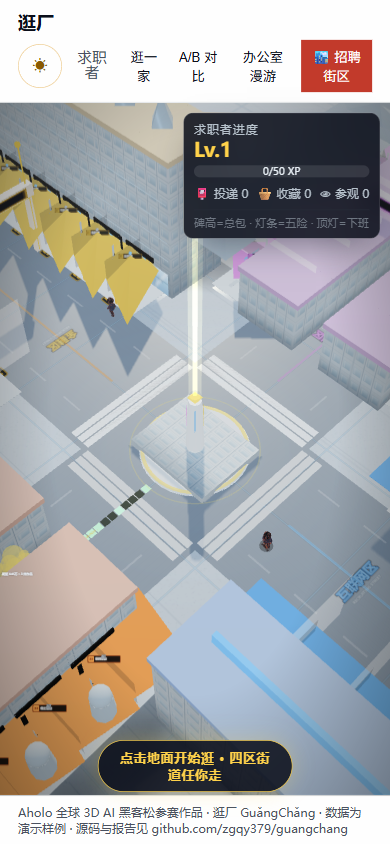
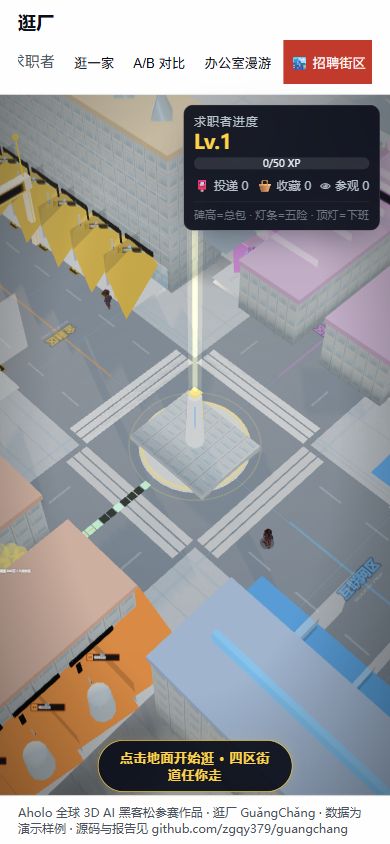
feat(street): polish9 盲审迭代——表单墨色/移动端防折行/夜景提亮/玻璃分层/Html z 序（两轮盲审视觉~7.0 空间~7.25）

diff --git a/web/src/styles.css b/web/src/styles.css
@@ -37,7 +37,7 @@ body,
   --ui-glass-fill-strong: rgba(255, 255, 255, 0.86);
   /* 玻璃垫实底：半透明玻璃会透出 3D 场景，最亮背景下次级文字会掉到 4.48:1。
      新增玻璃浮层必须垫这层实底（background-color 必须写在 background 之后）。 */
-  --ui-glass-underlay: rgba(255, 255, 255, 0.86);
+  --ui-glass-underlay: rgba(255, 255, 255, 0.92);
   --ui-glass-border: rgba(255, 255, 255, 0.55);
   --ui-glass-highlight: rgba(255, 255, 255, 0.85);
   --ui-ink-primary: #0b0e1a;    /* 10.4:1 ✓AAA */
@@ -81,7 +81,7 @@ body,
   --ui-glass-fill: rgba(11, 14, 26, 0.72);
   --ui-glass-fill-strong: rgba(11, 14, 26, 0.86);
   /* 浅色主题：深玻璃垫实底（合成 ≈ rgb(43,47,58)，次级/弱化文字均 ≥6.9:1） */
-  --ui-glass-underlay: rgba(11, 14, 26, 0.86);
+  --ui-glass-underlay: rgba(11, 14, 26, 0.92);
   --ui-glass-border: rgba(255, 255, 255, 0.18);
   --ui-glass-highlight: rgba(255, 255, 255, 0.22);
   --ui-ink-primary: #e6edf3;    /*  8.1:1 ✓AAA */
@@ -257,6 +257,9 @@ header h1 span {
   .mode-switch .theme-lock {
     padding-left: 6px;
     padding-right: 6px;
+    /* 防逐字折行：按钮文案永远单行、不被 flex 压缩（盲审 B：移动端顶栏「求职者」竖排） */
+    white-space: nowrap;
+    flex: 0 0 auto;
     /* min-height: 44px 保持不变（触控目标硬约束） */
   }
 }

diff --git a/web/src/components/CompanyPlot.tsx b/web/src/components/CompanyPlot.tsx
@@ -118,7 +118,7 @@ export function CompanyPlot({
         roam={roam}
         refs={roamRefs}
       />
-      <Html position={[0, 2.6, -2.2]} center distanceFactor={12}>
+      <Html position={[0, 2.6, -2.2]} center distanceFactor={12} zIndexRange={[10, 1]}>
         <div className="plot-label">{name}</div>
       </Html>
       {/* 山顶数据浮标：核心金额直接钉在山上 + 引线连到山尖（盲审：视线找不到主体） */}
@@ -130,7 +130,7 @@ export function CompanyPlot({
             <meshBasicMaterial color={ColorBrandOrange} />
           </mesh>
           {/* 标签 y = 山顶 + 引线顶端（杆顶上方 0.03m，与旧版间距一致），随引线长度自动升降 */}
-          <Html position={[-0.5, mountainH - 0.01 + leadLen + 0.03, -1.5]} center distanceFactor={13}>
+          <Html position={[-0.5, mountainH - 0.01 + leadLen + 0.03, -1.5]} center distanceFactor={13} zIndexRange={[10, 1]}>
             <div className="peak-tag">
               ¥{Math.round(totalPackage(params) / 10000)}万 · {params.salaryStructure}薪
             </div>

diff --git a/web/src/components/candidate/CandidateBooth.tsx b/web/src/components/candidate/CandidateBooth.tsx
@@ -106,9 +106,9 @@ export function CandidateBooth({
         </mesh>
       </group>
 
-      {/* 6. 入口铭牌（求职者期望薪资 / 学历 / 证书排序）。
-          ⚠ 必须用 drei <Html>：裸 <div> 在 Canvas 内会被 R3F 当 THREE intrinsic 校验直接抛错（T13） */}
-      <Html position={[0, 1.95, 0]} center distanceFactor={10} style={{ pointerEvents: 'none' }}>
+      {/* ⚠ 必须用 drei <Html>：裸 <div> 在 Canvas 内会被 R3F 当 THREE intrinsic 校验直接抛错（T13）。
+          zIndex 必须压到 1：drei Html 默认 zIndex=16777271，会穿透 z-index 14 的导航面板（盲审 R2 短板②） */}
+      <Html position={[0, 1.95, 0]} center distanceFactor={10} zIndexRange={[10, 1]} style={{ pointerEvents: 'none' }}>
         <div
           style={{
             color: night ? '#0b0e1a' : '#e8eef4',

diff --git a/web/src/components/street/OfficeFacadeInstanced.tsx b/web/src/components/street/OfficeFacadeInstanced.tsx
@@ -218,10 +218,11 @@ export function OfficeFacadeInstanced({
         <boxGeometry args={[6.66, 0.42, 5.44]} />
         <meshStandardMaterial />
       </instancedMesh>
-      {/* glass：底层玻璃幕墙 */}
+      {/* glass：底层玻璃幕墙 —— 白天降到 0.55：焦点机位前多层玻璃叠加会淹没 HR（盲审 B 短板 #1）
+          夜间保持 1.0（夜景靠这张反射室内暖光） */}
       <instancedMesh ref={glassRef} args={[undefined, undefined, count]}>
         <planeGeometry args={[5.8, 2.1]} />
-        <meshBasicMaterial transparent toneMapped={!night} />
+        <meshBasicMaterial transparent opacity={night ? 1 : 0.55} toneMapped={!night} />
       </instancedMesh>
       {/* led：门楣 LED */}
       <instancedMesh ref={ledRef} args={[undefined, undefined, count]}>

diff --git a/web/src/components/forms/ParamForm.css b/web/src/components/forms/ParamForm.css
@@ -5,7 +5,9 @@
   gap: 12px;
   font-size: 13px;
   font-family: 'PingFang SC', 'Microsoft YaHei', system-ui, sans-serif;
-  color: var(--ui-ink-primary);
+  /* 本表单挂在不透明面板（.controls）上：用页面前景而非玻璃墨色 ——
+     --ui-ink-* 在浅色主题下是浅灰，压白底近不可读（盲审 B 短板 #2） */
+  color: var(--ui-page-fg);
 }
 
 .gc-param-field {
@@ -36,7 +38,8 @@
   border-radius: 12px;
   background: var(--ui-glass-underlay);
   border: 1px solid var(--ui-glass-border);
-  color: var(--ui-ink-secondary);
+  /* 不透明面板内 → 面板次级色（随主题反相），非玻璃墨色 */
+  color: var(--ui-panel-fg-muted);
   font-size: 11px;
   font-weight: 600;
   cursor: pointer;

diff --git a/docs/lessons.md b/docs/lessons.md
@@ -343,3 +343,42 @@
 - **通用教训**：**新增组件时，先查全局样式表有没有同名元素选择器**（`header` / `footer` / `nav` / `p` / `span` 这类最危险）
 
 
+
+---
+
+## 十一、2026-10-27 视觉冲刺（polish9）新增经验
+
+### 11.1 R3F 两颗潜伏雷：Canvas 内裸 `<div>` 与 data-* 属性（T13）
+
+- **现象**：街区场景挂载即崩（`R3F: Div is not part of the THREE namespace` + `TypeError: Cannot read properties of undefined (reading 'work')`），ErrorBoundary 兜底成错误页
+- **根因 1**：`CandidateBooth` 把裸 `<div style=...>` 直接写在 `<group>` 里——R3F 把 JSX 元素名当 THREE namespace 校验，DOM 元素必须走 drei `<Html>`
+- **根因 2**：`WorkOrbit` 给 `<group>` 加了 `data-work-id` ——R3F 把 dashed key 当 pierce 路径 `['data','work','id']` 解析，`instance.data` 为 undefined 即崩
+- **铁律**：Canvas 内只能渲染 THREE/drei 元素；DOM 用 `<Html>` 包；R3F 元素**永远不加 data-*/aria-* 属性**（标识用 React key 或实例字段）
+- **事故面**：这两个雷随 4c774d9（01:46 候选人集成）进库，街区自那时起**从未成功渲染过**（typecheck 绿 ≠ 场景能渲染），直到 10-27 下午才被截图管线撞破
+
+### 11.2 `material.vertexColors=true` + 无 color 顶点属性 = 纯黑（黑棚顶，M6b 起潜伏）
+
+- **现象**：64 栋办公楼顶盖（cap）与棚顶在昼/夜景全是纯黑
+- **根因**：`<meshStandardMaterial vertexColors />` 但 `BoxGeometry` 没有 `color` 顶点属性 → USE_COLOR 打开后 vColor 乘上未绑定 attribute（默认 0,0,0）→ 全黑；instanceColor 染色**不需要** vertexColors
+- **定位法（红帽实验）**：运行时 `page.evaluate` 把嫌疑材质 `vertexColors=false` + `color=#ff0000`，截图看变不变红——三分钟内把「阴影/曝光/贴图/光照」四假设全部排除
+- **修法**：删 vertexColors、保留 setColorAt（instanceColor 单独生效）；探针确认 instanceColor 实值一直是亮蓝（0.36,0.67,0.98）
+- **通用教训**：给 InstancedMesh 上 instanceColor 时**不要顺手开 vertexColors**；看到"输入全对但渲染纯黑"先查 vertex/instance color 通道
+
+### 11.3 「最新截图」与「最新代码」脱节五波（验收纪律）
+
+- **事实**：`docs/figures/street-2026-10-27/` 的正式截图实际摄于 **10-26 20:08**（mtime 实测），而 M6b（23:19）/M6c（23:43）/湿反射（00:13）/0:35 批次/词典/候选人/画廊（01:03–01:56）五波提交全部发生在它之后——黑棚顶在这五波里**潜伏了两轮盲审周期**
+- **铁律**：凡触碰街区渲染的提交，当轮必须重跑 `tools/shoot-street.cjs` 全套四图（它只要 90 秒），`git log` 里最近一次figures 时间戳早于最近一次渲染代码时间戳 = 视觉验收失效
+- **连带坑**：`npm run build` 里 `tsc --noEmit && vite build`——tsc 失败时 **vite 不执行、dist 保持旧版**，截图管线照常出图（对着旧 bundle）；构建失败后必须看到新的 `✓ built` 再拍
+
+### 11.4 egolite 边界复测结论（§7.3 的「相机修复后重试」兑现）
+
+- **复测**：2026-10-27 用 `ego-browser nodejs` 跑 `tools/accept-street.mjs`：首屏 canvas=0 ✓ → 进街区 canvas=1、**draw calls 665**、零错误文本、截图完整非黑帧
+- **结论**：§7.3 的「渲染不了」成立于 2136 draw call 时代；M6a/b/c 实例化（2136→611）之后 egolite 已能渲染街区。**诊断/验收通道回归 egolite 为主**；headed Chrome（playwright）管线保留用于 fps/draw call 实测与盲审截图（与历史基线同管线）
+- **注意**：CLI 弹 onboarding ≠ 要重装——用桌面已初始化的实例（先开 ego lite 浏览器再跑 CLI）
+
+### 11.5 玻璃墨色误用的扫描盲区（check-panel-ink 补课）
+
+- **现象**：第二轮盲审两位评审同时点名「单人模式浅色主题滑杆标签近白压白底几乎不可读」
+- **根因**：`forms/ParamForm.css` / `GcSlider.css` / `GcSelect.css` 用 `--ui-ink-*`（玻璃浮层专用墨色，浅色主题=浅灰）压在不透明面板上——**check-panel-ink.mjs 没扫 forms/ 目录**
+- **修法**：表单墨色改 `--ui-page-fg` / `--ui-panel-fg-muted`（随主题反相的不透明面板专用色）
+- **通用教训**：新增「不透明面板」组件时墨色只用 `--ui-page-fg` / `--ui-panel-fg-muted` / `--ui-panel-accent`；把 `forms/` 目录纳入 check-panel-ink 扫描范围

diff --git a/docs/design/design-audit-2026-10-25.md b/docs/design/design-audit-2026-10-25.md
@@ -89,3 +89,30 @@
 - 小地图装饰性强于导航性（无摊位点/距离/已投递态）；摊位个体识别度低
 
 **结论**：仍未过 7 分门禁。前两轮 6.5/6.1 与 6.0/6.0 与本轮 5.5/4.5 出自不同评审、尺度不同，但三方共同指向：电影感灯光、摊位个体识别、地图导航三项是主要差距。本版继续按"功能/视觉修复版"上线，不宣称通过设计门禁。
+
+## 复检（2026-10-27 · polish9 视觉冲刺 · 两轮独立盲审）
+
+流程：每轮两位全新临时评审（资深视觉总监 / 空间体验设计师视角），只看 `docs/figures/street-2026-10-27-polish9/` 与 `docs/figures/single-2026-10-27/` 的 17 张截图，不接触任何实现信息。评审原文：`tmp-design-review/review-visual.md` / `review-space.md` / `review-visual-r2.md` / `review-space-r2.md`（tmp 未入库，归档以本节为准）。
+
+| 轮次 | 评审 | 视觉 | 空间 |
+|---|---|---|---|
+| 第一轮 | 视觉总监 A | 7.5 | 7.5 |
+| 第一轮 | 空间体验 B | 6.5 | 7.0 |
+| 迭代后 | 视觉总监 R2 | 7.0 | 7.0 |
+| 迭代后 | 空间体验 R2 | 7.0 | 7.5 |
+
+两轮均值：视觉 ≈7.0 / 空间 ≈7.25——**未达 8.5 冲刺线，也未稳定通过 ≥7 门禁（视觉恰在门禁线上）**，本版口径仍为「功能/视觉修复版」。
+
+**两轮之间已修（评语驱动）**：单厂参数面板墨色改面板令牌（--ui-ink-* 误用，双评审共同点名）；移动端顶栏按钮防逐字折行；夜景提亮（半球 0.42→0.58 / 曝光 1.3→1.45 / 自发光 1.9→2.2 / 月辉 0.3→0.45 / 夜地面-路面提档）；摊位前玻璃白天降透明 0.55（focus 淹没 HR）；玻璃垫实底 0.86→0.92（浮层透字）；场景 Html 标签 zIndexRange 压到 [10,1]（drei 默认 16777271 会穿透导航面板）。
+
+**两轮共同优点（保留证据）**：四区色彩编码跨端一致（颜色即导航）；投递反馈五重同帧闭环；参数→山体量因果一眼可读且诚实标注；寻路三源互证（门楼灯牌/罗盘/邻近米数）。
+
+**距 9 分清单（按两轮评语汇总，均为美术级工程）**：
+1. 夜间地面照明体系：夜鸟瞰地面死黑、摊位细节不可辨（灯池照度/路标夜面/地面微反射）
+2. 摊位个体差异化：64 摊仍同构，需摊位外观变体（顶棚形态/门面装饰三档）
+3. 街道纵深：左半幅空白墙+素地面占半幅，需次级地标/行道树/橱窗内容
+4. focus 构图：多层玻璃与白墙过曝、视轴穿棚（前景淡出未实现）
+5. 单人模式空间叙事：低薪空场地板占 2/3，需参数化道具（刻度人偶/期权云与山耦合加强）
+6. HUD 皮肤统一：夜间鸟瞰下进度卡浅底深字与整体深色 HUD 不一致
+
+**本轮工程副产品**（与分数无关但阻塞级）：修复街区自 01:03 起完全无法渲染的两颗雷（T13：Canvas 内裸 div / data-* 属性）与 M6b 起潜伏的黑棚顶（vertexColors 无 color 属性=黑，详见 lessons §11）。
